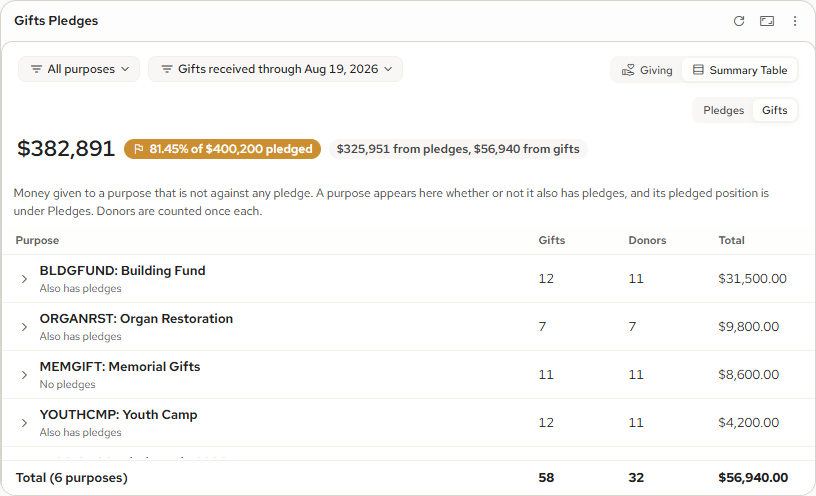
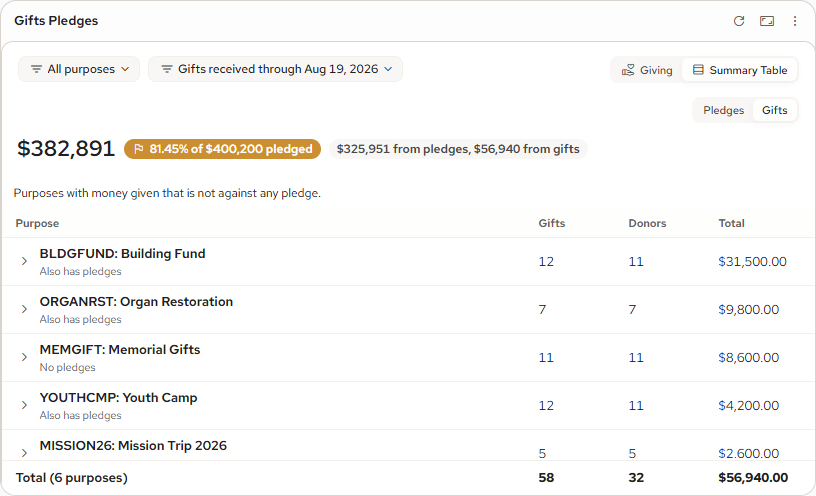
Gifts Pledges: plain, parallel one-line captions on the two Summary Tables (owner, 11 Oct)
Pledges: "Purposes with an active pledge, and the money given against those pledges."
Gifts: "Purposes with money given that is not against any pledge." Plain text colour.
Shots 03 and 06 retaken; suite 3704 green.

diff --git a/index.html b/index.html
@@ -2034,6 +2034,7 @@
   /* SUMMARY TABLE. Her row grid and cells do all the column work; this only
      gives the table a scrolling body with the totals row pinned below it. */
   .gpf-root .gpf-tblwrap{flex:1;min-height:0;display:flex;flex-direction:column;min-width:0;}
+  .gpf-root .gpf-tblwrap .gpf-cap{color:var(--txt-primary);} /* the table captions in plain text, no colour (owner, 11 Oct) */
   .gpf-root .gpf-scroll{flex:1 1 auto;min-height:0;overflow-y:auto;overscroll-behavior:contain;scrollbar-width:thin;}
   .gpf-root .gpf-sumrow{align-items:center;}
   .gpf-root .gpf-sumtotal{font-weight:700;}
@@ -10503,7 +10504,7 @@ function gpFPledgesTable(w,trim){
     '<span class="gpf-c-n">'+gpFDueCell(t.dueRem)+'</span>'+
     (gpFWidePct(w)?'<span class="gpf-c-n gpf-c-pct"></span>':'')+
   '</div>');
-  var cap='<div class="gpf-ctx gpf-cap"><span>The pledged position for every purpose with an active pledge, as the Gifts and Pledges panel reports it. Gifts with no pledge behind them are under Gifts. Pledge Due is each donor pledge paced on its own begin to end term, and the full pledge once past its end date.'+(gpFWidePct(w)?' Percent Due is Due Remaining over Pledge Due, so a negative value means over received.':'')+(trim?' Largest pledges first.':'')+'</span></div>';
+  var cap='<div class="gpf-ctx gpf-cap"><span>Purposes with an active pledge, and the money given against those pledges.'+(trim?' Largest pledges first.':'')+'</span></div>';
   return '<div class="gpf-tblwrap">'+cap+'<div class="scroll gpf-scroll">'+gpFSummaryHead(w)+body+'</div>'+tot+'</div>';
 }
 /* GIFTS: gift lines with no pledge behind them, per purpose, up to the through date. The
@@ -10543,7 +10544,7 @@ function gpFGiftsTable(w,trim){
     '<span class="gpf-c-n gpf-c-lft">'+t.giftDonors+'</span>'+
     '<span class="gpf-c-n gpf-c-lft">'+gpFMoney(t.other)+'</span>'+
   '</div>');
-  var cap='<div class="gpf-ctx gpf-cap"><span>Money given to a purpose that is not against any pledge. A purpose appears here whether or not it also has pledges, and its pledged position is under Pledges. Donors are counted once each.'+(trim?' Largest first.':'')+'</span></div>';
+  var cap='<div class="gpf-ctx gpf-cap"><span>Purposes with money given that is not against any pledge.'+(trim?' Largest first.':'')+'</span></div>';
   return '<div class="gpf-tblwrap">'+cap+'<div class="scroll gpf-scroll">'+gpFGiftsHead()+body+'</div>'+tot+'</div>';
 }
 /* DONOR BREAKDOWN, expanded inline under a purpose row, most behind pace first, 20

diff --git a/docs/decisions/W17.md b/docs/decisions/W17.md
@@ -464,3 +464,4 @@ Owner, 11 Oct, after reviewing the logic draft: "the time filter does not make f
 - **Verification.** Driver rewritten where the range model was (sections 1, 3, 4, 5, 7, 8, 11, 12, 14, 15) and two sections added: 17 (three words, Status column, sort behaviour, Total given, data checks) and 18 (hosted shell: both menus registered, trigger selectors, popContent). 1041 assertions for W17 (was 853); suite 3702 green. Lint unchanged apart from T2, one legitimate media-query override of the chip's short form. Headless at 1920 and 1536: chip row on one line, the dates menu renders as the shell's pop-over, End of last month moves the header, bars and ledger, Status column and sorted ledger read as designed, no overflow.
 - Handover section rewritten and all six V2 shots retaken; see the 11 Oct commit.
 - **Second round, same day (owner, from the screenshots): "Add purpose section to glimpse, check other widgets for where it should go to match other widgets. Remove Status from the table on pledges and change to Percent Due."** The purpose chip leads the Glance, first in the figure column as Deposits on Hand and Payroll Distributions place theirs; to keep four lines inside the Glance height the pledged pill sits beside the big figure, the Explore header's own arrangement (at the owner's 125% zoom it wraps under the figure and still fits). The Pledges table is the panel's six columns at every size, Percent Due included (it had been Detail only since 28 Sep); its Status column and chip are gone, the three words staying on the header badge, the Giving rows and the ledger. Driver 1043; suite 3704 green; shots 01, 03 and 04 retaken; handover Overview, Glance and Table bullets updated.
+- **Table captions (owner, same day): "the text need to be made very simple and easy, what is the pledge list and what is the gift list and the text should be the same. no colour on the text."** One parallel sentence each, in plain text colour: Pledges "Purposes with an active pledge, and the money given against those pledges."; Gifts "Purposes with money given that is not against any pledge." The explanations of Pledge Due, Percent Due and donor counting left the captions (they stay in the handover's Developer Notes). Shots 03 and 06 retaken.
